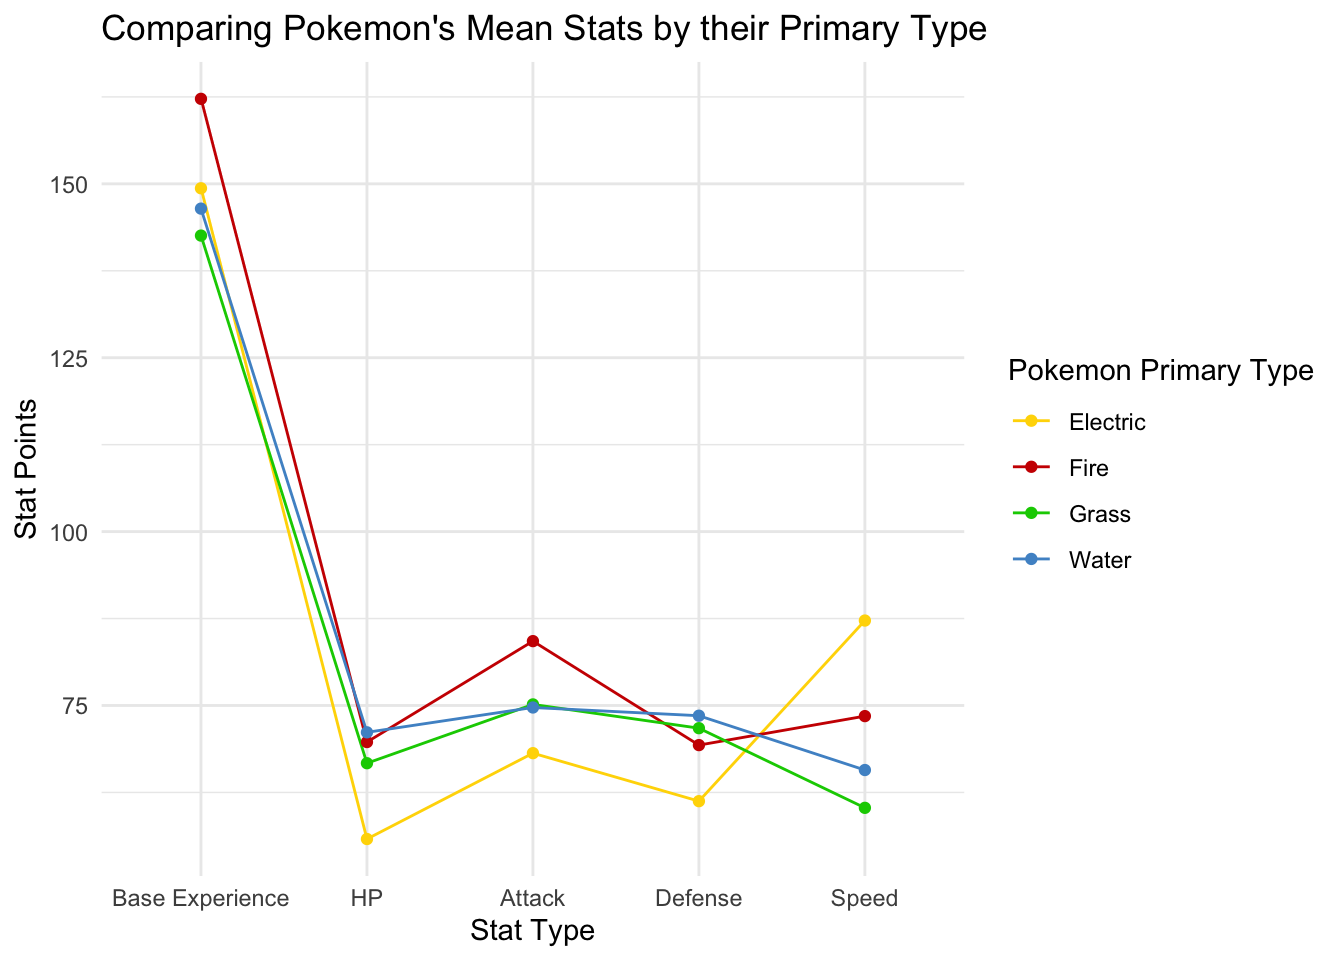
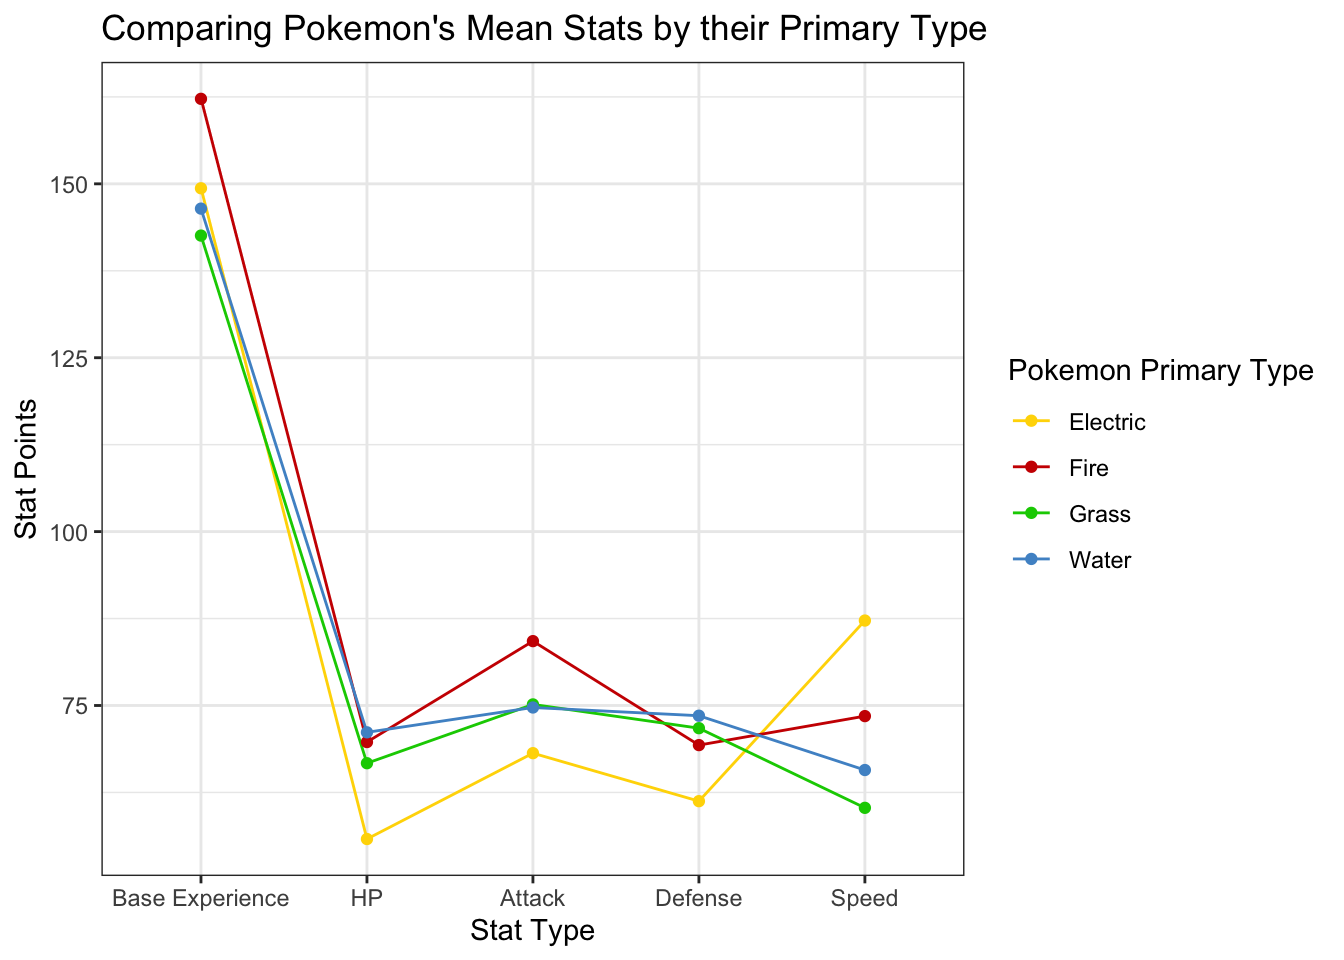
theme change

Changed region(s): [[0.6875, 0.0625, 0.7188, 0.0938]]

diff --git a/2025-04-01/TidyTuesday3.html b/2025-04-01/TidyTuesday3.html
@@ -350,7 +350,7 @@ dbl (12): id, species_id, height, weight, base_experience, hp, attack, defen...
 <span id="cb21-2"><a href="#cb21-2" aria-hidden="true" tabindex="-1"></a>  <span class="fu">ggplot</span>(<span class="fu">aes</span>(<span class="at">x =</span> <span class="st">`</span><span class="at">Stat Names</span><span class="st">`</span>, <span class="at">y =</span> Stats, <span class="at">group =</span> type_1, <span class="at">color =</span> type_1)) <span class="sc">+</span></span>
 <span id="cb21-3"><a href="#cb21-3" aria-hidden="true" tabindex="-1"></a>  <span class="fu">geom_line</span>() <span class="sc">+</span></span>
 <span id="cb21-4"><a href="#cb21-4" aria-hidden="true" tabindex="-1"></a>  <span class="fu">geom_point</span>() <span class="sc">+</span></span>
-<span id="cb21-5"><a href="#cb21-5" aria-hidden="true" tabindex="-1"></a>  <span class="fu">theme_minimal</span>() <span class="sc">+</span> </span>
+<span id="cb21-5"><a href="#cb21-5" aria-hidden="true" tabindex="-1"></a>  <span class="fu">theme_bw</span>() <span class="sc">+</span> </span>
 <span id="cb21-6"><a href="#cb21-6" aria-hidden="true" tabindex="-1"></a>  <span class="fu">labs</span>(<span class="at">title =</span> <span class="st">"Comparing Pokemon's Mean Stats by their Primary Type"</span>, </span>
 <span id="cb21-7"><a href="#cb21-7" aria-hidden="true" tabindex="-1"></a>       <span class="at">y =</span> <span class="st">"Stat Points"</span>, </span>
 <span id="cb21-8"><a href="#cb21-8" aria-hidden="true" tabindex="-1"></a>       <span class="at">color =</span> <span class="st">"Pokemon Primary Type"</span>, </span>
